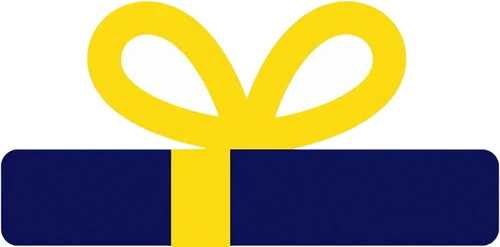
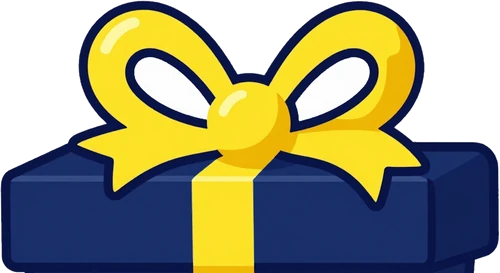
Round I: game work first in Work, compact How we work route (02.1 boot -> 02.2 piano inside 02), richer gift box

diff --git a/css/style.css b/css/style.css
@@ -866,16 +866,18 @@ ul { padding: 0; list-style: none; }
 .pricing::before { right: -5vw; bottom: -.12em; color: rgba(16, 28, 63, .02); }
 
 /* ---------- how we work: one route in four legs ---------- */
-/* 01 brief and onboarding (a small picture), 02 creation (the boot and the piano), 03 integration and
-   in-game testing (the Game Boy), 04 delivery and support (the gift). A navy station numbers each leg
-   and a light dashed line runs from one station to the next. On the Studio's sky blue. */
+/* 01 brief and onboarding (a small picture), 02 creation and coordination (inside it: 02.1 the boot,
+   then 02.2 the piano), 03 integration and in-game testing (the Game Boy), 04 delivery and support (the
+   gift). Each leg is one soft panel that holds its title, its text and its objects, so it is clear what
+   belongs to which step; a navy station numbers the leg, a short bar in the leg's colour ties the
+   station to its panel, and a light dashed line runs on to the next station. On the Studio's sky blue. */
 :root { --process-foot: var(--sky); }
 .process {
   background:
     radial-gradient(42% 30% at 92% 8%, rgba(255, 255, 255, .24), transparent 72%),
     radial-gradient(40% 30% at 4% 70%, rgba(255, 255, 255, .14), transparent 72%),
     var(--sky);
-  padding: calc(var(--seam) + 4px) var(--gutter) clamp(56px, 8vh, 96px);
+  padding: calc(var(--seam) + 4px) var(--gutter) clamp(48px, 7vh, 84px);
 }
 .process > * { max-width: var(--maxw); margin-left: auto; margin-right: auto; }
 .process__intro { display: grid; grid-template-columns: auto minmax(0, 1fr); gap: 14px 48px; align-items: end; }
@@ -884,75 +886,112 @@ ul { padding: 0; list-style: none; }
 .process__sub { font-weight: 800; font-stretch: 112%; font-size: var(--t-md); line-height: 1.2; margin-bottom: 6px; }
 .process__lede { line-height: 1.45; }
 
-.route { --gap: clamp(30px, 4.5vh, 48px); list-style: none; margin: clamp(30px, 4.5vh, 48px) auto 0; padding: 0; display: grid; gap: var(--gap); }
-.leg { --c: var(--zest); position: relative; display: grid; grid-template-columns: 60px minmax(0, 1fr); column-gap: clamp(16px, 2.4vw, 34px); }
+.route { --gap: 22px; --mark: 52px; --top: 16px; list-style: none; margin: clamp(26px, 4vh, 40px) auto 0; padding: 0; display: grid; gap: var(--gap); }
+.leg { --c: var(--zest); position: relative; display: grid; grid-template-columns: var(--mark) minmax(0, 1fr); column-gap: 20px; }
 .leg:nth-child(2) { --c: var(--jam); }
 .leg:nth-child(3) { --c: var(--mint); }
 .leg:nth-child(4) { --c: #fff; }
 /* the station */
 .leg__mark {
-  position: relative; z-index: 1; width: 60px; height: 60px; border-radius: 50%; display: grid; place-items: center;
-  background: var(--ink); color: #fff; font-weight: 900; font-stretch: 112%; font-size: 1.12rem; letter-spacing: .02em;
+  position: relative; z-index: 1; width: var(--mark); height: var(--mark); margin-top: var(--top); border-radius: 50%; display: grid; place-items: center;
+  background: var(--ink); color: #fff; font-weight: 900; font-stretch: 112%; font-size: 1.02rem; letter-spacing: .02em;
   box-shadow: inset 0 0 0 5px var(--c);
 }
 /* the line on to the next station, with a small arrow at its end */
 .leg:not(:last-child)::before {
-  content: ""; position: absolute; left: 28.5px; top: 68px; bottom: calc(-1 * var(--gap) + 10px); width: 3px;
+  content: ""; position: absolute; left: calc(var(--mark) / 2 - 1.5px); top: calc(var(--top) + var(--mark) + 6px);
+  bottom: calc(-1 * (var(--gap) + var(--top)) + 12px); width: 3px;
   background: repeating-linear-gradient(to bottom, var(--ink) 0 8px, transparent 8px 15px); opacity: .45;
 }
 .leg:not(:last-child)::after {
-  content: ""; position: absolute; left: 24px; bottom: calc(-1 * var(--gap) + 4px); width: 12px; height: 12px;
+  content: ""; position: absolute; left: calc(var(--mark) / 2 - 6px); bottom: calc(-1 * (var(--gap) + var(--top)) + 6px); width: 12px; height: 12px;
   border: solid var(--ink); border-width: 0 3px 3px 0; transform: rotate(45deg); opacity: .55;
 }
-.leg__body { min-width: 0; }
-.leg__title { font-weight: 900; font-stretch: 116%; font-size: clamp(1.45rem, 2.3vw, 2.05rem); line-height: 1.05; letter-spacing: -.02em; margin: 12px 0 10px; }
-.leg__text p { line-height: 1.5; max-width: 62ch; }
-.leg__text p + p { margin-top: 10px; }
-.leg__head { font-weight: 800; font-stretch: 112%; font-size: var(--t-md); line-height: 1.25; max-width: 42ch; }
+/* the panel of the leg, tied to its station */
+.leg__body {
+  position: relative; min-width: 0; padding: 16px clamp(16px, 1.8vw, 24px) 18px; border-radius: 24px;
+  background: rgba(255, 255, 255, .2); box-shadow: inset 0 0 0 2px rgba(255, 255, 255, .55);
+}
+.leg__body::before {
+  content: ""; position: absolute; left: -20px; top: calc(var(--top) + var(--mark) / 2 - 2px); width: 20px; height: 4px;
+  border-radius: 2px; background: var(--c);
+}
+.leg__title { font-weight: 900; font-stretch: 116%; font-size: clamp(1.3rem, 1.9vw, 1.75rem); line-height: 1.05; letter-spacing: -.02em; margin: 0 0 8px; }
+.leg__text p { line-height: 1.45; max-width: 60ch; }
+.leg__text p + p { margin-top: 8px; }
+.leg__head { font-weight: 800; font-stretch: 112%; font-size: clamp(1.02rem, 1.25vw, 1.15rem); line-height: 1.25; max-width: 40ch; }
 .leg__note { font-size: .9375rem; font-style: italic; }
-/* 01: picture and text in a row, short */
-.leg__body--row { display: flex; align-items: center; gap: clamp(16px, 2.4vw, 32px); }
-.leg__body--row .leg__title { margin-top: 0; }
-.leg__art { width: 108px; height: 108px; flex: none; }
-/* 02: the boot and the piano side by side */
-.leg--make .principles { margin-top: 22px; display: grid; grid-template-columns: repeat(2, minmax(0, 1fr)); gap: clamp(18px, 2.6vw, 36px); }
-/* 03 and 04: text beside the object */
-.leg__body--split { display: grid; grid-template-columns: minmax(0, .8fr) minmax(0, 1.2fr); gap: clamp(20px, 3vw, 48px); align-items: start; }
-.leg--test .principle__art { margin-bottom: 0; }
-.leg--deliver .leg__body--split { grid-template-columns: minmax(0, 1fr) minmax(240px, .75fr); }
+.leg__coord { padding: 8px 12px; border-radius: 14px; background: rgba(255, 255, 255, .55); font-size: .9375rem; }
+.leg__coord strong { font-weight: 850; }
+/* 01: a small picture and three short points in one row */
+.leg__body--row { display: flex; align-items: center; gap: clamp(14px, 2vw, 24px); }
+.leg__art { width: 76px; height: 76px; flex: none; }
+.leg__points { list-style: none; margin: 0; padding: 0; display: flex; flex-wrap: wrap; gap: 6px 26px; }
+.leg__points li { position: relative; padding-left: 16px; line-height: 1.4; }
+.leg__points li::before { content: ""; position: absolute; left: 0; top: .5em; width: 8px; height: 8px; border-radius: 50%; background: var(--ink); box-shadow: 0 0 0 2px var(--c); }
+/* 02: the text, then the two steps inside it: 02.1 sound effects -> 02.2 music */
+.leg__body--group { display: grid; grid-template-columns: minmax(230px, .78fr) minmax(0, 2.2fr); gap: 16px clamp(20px, 2.4vw, 32px); align-items: start; }
+.substeps { list-style: none; margin: 0; padding: 0; display: grid; grid-template-columns: repeat(2, minmax(0, 1fr)); gap: 16px 48px; }
+.substep { position: relative; display: flex; flex-direction: column; min-width: 0; }
+.substep__label { display: flex; align-items: center; gap: 8px; margin: 0 0 8px; font-weight: 800; font-stretch: 112%; font-size: 1.02rem; line-height: 1.2; }
+.substep__no {
+  flex: none; padding: 3px 8px; border-radius: 999px; background: var(--ink); color: #fff;
+  font-size: .78rem; letter-spacing: .03em; box-shadow: inset 0 0 0 2px var(--c);
+}
+.substep .principle__art { margin-bottom: 0; border-radius: 18px; box-shadow: 0 14px 24px -16px rgba(16, 28, 63, .5); }
+.substep__text { margin-top: 8px; font-size: .9375rem; line-height: 1.4; }
+/* the arrow from 02.1 to 02.2: a navy dot with a chevron, in the gap between the two cards */
+.substep + .substep::before, .substep + .substep::after { content: ""; position: absolute; z-index: 2; pointer-events: none; }
+.substep + .substep::before {
+  left: -39px; top: calc(28px + (100% - 28px - 2.8em) / 2 - 15px); width: 30px; height: 30px; border-radius: 50%;
+  background: var(--ink); box-shadow: inset 0 0 0 2px var(--c);
+}
+.substep + .substep::after {
+  left: -29px; top: calc(28px + (100% - 28px - 2.8em) / 2 - 5px); width: 8px; height: 8px;
+  border: solid #fff; border-width: 2.5px 2.5px 0 0; transform: rotate(45deg);
+}
+/* 03 and 04: the text beside the object */
+.leg__body--split { display: grid; grid-template-columns: minmax(0, 1fr) minmax(0, 460px); gap: 16px clamp(20px, 2.4vw, 32px); align-items: start; }
+.leg--test .principle__art { margin-bottom: 0; border-radius: 18px; }
+.leg--deliver .leg__body--split { grid-template-columns: minmax(0, 1fr) minmax(220px, 280px); }
 .leg .step__support { max-width: 52ch; }
-.process__cta { display: flex; flex-wrap: wrap; align-items: center; justify-content: center; gap: 12px 20px; margin-top: clamp(30px, 4.5vh, 48px); text-align: center; }
+.process__cta { display: flex; flex-wrap: wrap; align-items: center; justify-content: center; gap: 12px 20px; margin-top: clamp(26px, 4vh, 40px); text-align: center; }
 .process__cta p { font-weight: 800; font-stretch: 112%; font-size: var(--t-md); line-height: 1.2; }
-.step__support { margin-top: 12px; padding: 10px 12px; border-radius: 16px; background: #fff4c8; box-shadow: inset 0 0 0 2px var(--zest); font-size: .9375rem; line-height: 1.42; }
+.step__support { margin-top: 10px; padding: 9px 12px; border-radius: 16px; background: #fff4c8; box-shadow: inset 0 0 0 2px var(--zest); font-size: .9375rem; line-height: 1.42; }
 .step__support strong { display: block; margin-bottom: 2px; font-weight: 850; }
 
 /* ---------- the gift: shake it, open it ---------- */
-.gift { position: relative; display: grid; justify-items: center; gap: 12px; padding-top: 6px; }
+.gift { --tilt: 0deg; --hop: 0px; position: relative; display: grid; justify-items: center; gap: 10px; padding-top: 4px; }
 .gift__hint {
-  padding: 6px 14px; border-radius: 999px; background: #fff; color: var(--ink);
-  font-weight: 700; font-size: .875rem; line-height: 1.25; text-align: center; box-shadow: 0 6px 16px -10px rgba(16, 28, 63, .5);
+  padding: 5px 13px; border-radius: 999px; background: #fff; color: var(--ink);
+  font-weight: 700; font-size: .8125rem; line-height: 1.25; text-align: center; box-shadow: 0 6px 16px -10px rgba(16, 28, 63, .5);
   transition: opacity .3s;
 }
 .gift.is-open .gift__hint { opacity: 0; }
+.gift__stand { position: relative; display: grid; justify-items: center; }
 .gift__box {
-  --tilt: 0deg; --hop: 0px;
-  position: relative; display: block; width: min(250px, 64vw); aspect-ratio: 500 / 533; padding: 0; border: 0; background: none;
+  position: relative; z-index: 1; display: block; width: min(186px, 52vw); aspect-ratio: 500 / 527; padding: 0; border: 0; background: none;
   cursor: pointer; touch-action: manipulation; -webkit-tap-highlight-color: transparent;
   transform: translateY(var(--hop)) rotate(var(--tilt)); transform-origin: 50% 92%;
 }
 .gift__box:focus-visible { outline: 3px solid var(--ink); outline-offset: 8px; border-radius: 18px; }
+/* a soft flat shadow on the ground: it stays put and shrinks a little while the box hops */
+.gift__shadow {
+  position: relative; z-index: 0; width: 78%; height: 14px; margin-top: -8px; border-radius: 50%; background: rgba(16, 28, 63, .26);
+  transform: scaleX(calc(1 + var(--hop, 0px) / 40px)); transition: opacity .3s;
+}
 .gift__base, .gift__lid { position: absolute; left: 0; width: 100%; height: auto; pointer-events: none; -webkit-user-drag: none; }
 .gift__base { z-index: 2; bottom: 0; }
 .gift__lid { z-index: 3; top: 0; transform-origin: 18% 100%; transition: transform .55s var(--ease-spring), opacity .4s .25s; }
 /* the card waits inside the box, behind its front */
 .gift__card {
-  position: absolute; z-index: 1; left: 50%; top: 34%; width: max(200px, 92%);
-  display: grid; justify-items: center; gap: 4px; padding: 14px 16px 16px; border-radius: 20px;
+  position: absolute; z-index: 1; left: 50%; top: 34%; width: max(196px, 104%);
+  display: grid; justify-items: center; gap: 4px; padding: 12px 14px 14px; border-radius: 18px;
   background: #fff; color: var(--ink); box-shadow: 0 16px 34px -18px rgba(16, 28, 63, .6), inset 0 0 0 3px var(--jam);
   transform: translate(-50%, 0) scale(.6); opacity: 0;
 }
-.gift__card strong { font-weight: 900; font-stretch: 118%; font-size: clamp(2.6rem, 4.4vw, 3.4rem); line-height: .95; letter-spacing: -.03em; color: var(--jam); }
-.gift__card span { font-weight: 700; font-size: .9375rem; line-height: 1.3; text-align: center; }
+.gift__card strong { font-weight: 900; font-stretch: 118%; font-size: clamp(2.3rem, 3.6vw, 2.9rem); line-height: .95; letter-spacing: -.03em; color: var(--jam); }
+.gift__card span { font-weight: 700; font-size: .875rem; line-height: 1.3; text-align: center; }
 .gift.is-open .gift__lid { transform: translate(-34%, -48%) rotate(-28deg); }
 .gift.is-open .gift__card {
   z-index: 4; opacity: 1; transform: translate(-50%, -58%) scale(1) rotate(-3deg);
@@ -961,26 +1000,38 @@ ul { padding: 0; list-style: none; }
 @media (max-width: 1100px) {
   .process__intro { grid-template-columns: 1fr; }
   .process__side { justify-self: start; }
-  .leg__body--split, .leg--deliver .leg__body--split { grid-template-columns: minmax(0, 1fr); }
-  .leg--test .principle__art { max-width: 620px; }
-  .leg--make .principles { grid-template-columns: minmax(0, 1fr); }
-  .gift { justify-self: start; margin-left: 24px; }
+  .leg__body--group { grid-template-columns: minmax(0, 1fr); }
+  .leg__body--split { grid-template-columns: minmax(0, 1fr) minmax(0, 400px); }
+}
+@media (max-width: 860px) {
+  .leg--test .leg__body--split { grid-template-columns: minmax(0, 1fr); }
+  .leg--test .principle__art { max-width: 460px; }
 }
 @media (max-width: 760px) {
-  /* top to bottom: the station and the title in one row, then the rest */
-  .leg { grid-template-columns: 44px minmax(0, 1fr); column-gap: 14px; }
-  .leg__mark { width: 44px; height: 44px; font-size: .95rem; box-shadow: inset 0 0 0 4px var(--c); }
-  .leg:not(:last-child)::before { left: 20.5px; top: 52px; }
-  .leg:not(:last-child)::after { left: 16px; }
-  .leg__title { margin-top: 6px; }
+  /* top to bottom: each panel carries its station in its corner, the dashed line runs between panels */
+  .route { --gap: 30px; --mark: 40px; }
+  .leg { grid-template-columns: minmax(0, 1fr); }
+  .leg__mark { position: absolute; left: 12px; top: 12px; margin: 0; font-size: .9rem; box-shadow: inset 0 0 0 4px var(--c); }
+  .leg:not(:last-child)::before { left: 30.5px; top: auto; bottom: calc(-1 * var(--gap) + 9px); height: calc(var(--gap) - 4px); }
+  .leg:not(:last-child)::after { left: 26px; bottom: calc(-1 * var(--gap) + 3px); }
+  .leg__body { padding: 14px 14px 16px; border-radius: 20px; }
+  .leg__body::before { display: none; }
+  .leg__title { min-height: 40px; display: flex; align-items: center; padding-left: 52px; margin-bottom: 10px; }
   .leg__body--row { align-items: flex-start; }
-  .leg__art { width: 72px; height: 72px; order: 2; }
-  .gift { justify-self: center; margin-left: 0; }
+  .leg__art { width: 56px; height: 56px; order: 2; margin-top: 46px; }
+  .leg__points { flex-direction: column; gap: 4px; }
+  .substeps { grid-template-columns: minmax(0, 1fr); gap: 44px; }
+  .substep + .substep::before { left: calc(50% - 15px); top: -37px; }
+  .substep + .substep::after { left: calc(50% - 5px); top: -27px; transform: rotate(135deg); }
+  .leg--test .principle__art { max-width: 340px; justify-self: center; width: 100%; }
+  .leg--deliver .leg__body--split { grid-template-columns: minmax(0, 1fr); }
+  .gift__box { width: min(168px, 48vw); }
 }
 .gift.is-still .gift__lid, .gift.is-still .gift__card, .gift.is-still .gift__hint { transition: none; }
 @media (prefers-reduced-motion: reduce) {
   .gift__lid, .gift.is-open .gift__card { transition: none; }
   .gift__box { transform: none; }
+  .gift__shadow { transform: none; }
 }
 
 /* ---------- seams between sections ---------- */

diff --git a/index.html b/index.html
@@ -114,23 +114,36 @@
           <img class="leg__art" src="assets/process/connect.webp" alt="" width="220" height="220" loading="lazy" decoding="async">
           <div class="leg__text">
             <h3 class="leg__title"><span class="visually-hidden">Step 1: </span>Brief &amp; onboarding</h3>
-            <p>We take your request, get to know the project and agree on the tasks. Our manager joins your Asana, Trello or other workspace, and together we settle the timing, the owners and how we keep in touch.</p>
+            <ul class="leg__points">
+              <li>We take your request.</li>
+              <li>We agree on the tasks, the scope and the timing.</li>
+              <li>Our manager joins your Asana, Trello or other workspace.</li>
+            </ul>
           </div>
         </div>
       </li>
 
       <li class="leg leg--make" id="studio">
         <p class="leg__mark" aria-hidden="true">02</p>
-        <div class="leg__body">
-          <div class="leg__text leg__text--wide">
+        <div class="leg__body leg__body--group">
+          <div class="leg__text">
             <h3 class="leg__title"><span class="visually-hidden">Step 2: </span>Creation &amp; coordination</h3>
             <p class="leg__head">Cartoon worlds need sound that commits. This is where we make it.</p>
-            <p>Round, bouncy art calls for round, bouncy sound. We design from the setting and the animation, not from a generic library tone. Our manager runs our team’s tasks and keeps in touch with your project team.</p>
+            <p>Round, bouncy art calls for round, bouncy sound. We design from the setting and the animation, not from a generic library tone.</p>
+            <p class="leg__coord"><strong>Coordination.</strong> Our manager runs our team’s tasks and works with your developers.</p>
           </div>
-          <ul class="principles">
-            <li><div class="principle__art principle__art--stage" data-scene="foley" role="group" aria-label="Footsteps: a boot over dirt, sand, grass and snow. Press a surface to hear the boot step on it."><span class="principle__hint" aria-hidden="true">Pick a surface</span><img class="principle__img" src="assets/studio/foley-1024.webp" srcset="assets/studio/foley-640.webp 640w, assets/studio/foley-1024.webp 1024w" sizes="(max-width: 760px) 92vw, (max-width: 1100px) 44vw, 40vw" width="1024" height="768" loading="lazy" decoding="async" alt=""></div><div class="principle__text"><h4>Sound effects</h4><p>Every surface has its own step. Pick one and listen.</p></div></li>
-            <li><div class="principle__art principle__art--play" data-scene="keys" tabindex="0" role="group" aria-label="A small keyboard you can play" aria-describedby="piano-help"><span class="principle__hint" aria-hidden="true">Play me</span><span class="visually-hidden" id="piano-help">Click or tap the keys. With the keyboard, use A to L for white keys and W, E, T, Y, U, O, P for black keys.</span><img class="principle__img" src="assets/studio/music-1024.webp" srcset="assets/studio/music-640.webp 640w, assets/studio/music-1024.webp 1024w" sizes="(max-width: 760px) 92vw, (max-width: 1100px) 44vw, 40vw" width="1024" height="768" loading="lazy" decoding="async" alt=""></div><div class="principle__text"><h4>Music</h4><p>The musical side of the work. Play the keys.</p></div></li>
-          </ul>
+          <ol class="substeps" aria-label="Inside this step: first the sound effects, then the music">
+            <li class="substep">
+              <h4 class="substep__label"><span class="substep__no">02.1</span> <span>Sound effects &amp; footsteps</span></h4>
+              <div class="principle__art principle__art--stage" data-scene="foley" role="group" aria-label="Footsteps: a boot over dirt, sand, grass and snow. Press a surface to hear the boot step on it."><span class="principle__hint" aria-hidden="true">Pick a surface</span><img class="principle__img" src="assets/studio/foley-1024.webp" srcset="assets/studio/foley-640.webp 640w, assets/studio/foley-1024.webp 1024w" sizes="(max-width: 760px) 92vw, (max-width: 1100px) 44vw, 420px" width="1024" height="768" loading="lazy" decoding="async" alt=""></div>
+              <p class="substep__text">Every surface has its own step. Pick one and listen.</p>
+            </li>
+            <li class="substep">
+              <h4 class="substep__label"><span class="substep__no">02.2</span> <span>Music</span></h4>
+              <div class="principle__art principle__art--play" data-scene="keys" tabindex="0" role="group" aria-label="A small keyboard you can play" aria-describedby="piano-help"><span class="principle__hint" aria-hidden="true">Play me</span><span class="visually-hidden" id="piano-help">Click or tap the keys. With the keyboard, use A to L for white keys and W, E, T, Y, U, O, P for black keys.</span><img class="principle__img" src="assets/studio/music-1024.webp" srcset="assets/studio/music-640.webp 640w, assets/studio/music-1024.webp 1024w" sizes="(max-width: 760px) 92vw, (max-width: 1100px) 44vw, 420px" width="1024" height="768" loading="lazy" decoding="async" alt=""></div>
+              <p class="substep__text">The musical side of the work. Play the keys.</p>
+            </li>
+          </ol>
         </div>
       </li>
 
@@ -139,10 +152,10 @@
         <div class="leg__body leg__body--split">
           <div class="leg__text">
             <h3 class="leg__title"><span class="visually-hidden">Step 3: </span>Integration &amp; in‑game testing</h3>
-            <p>Sound has to work in the game itself. We work with your developers on hooking it up, play the available build, listen to the result, log notes and adjust the sound.</p>
-            <p class="leg__note">On the screen, a small rhythm game pictures this step: catch the notes on the strings.</p>
+            <p>We check the sound and the music in the game itself: we work with your developers on hooking it up, play the available build, log notes and fix them.</p>
+            <p class="leg__note">The little rhythm game on the screen only pictures this step: catch the notes on the strings.</p>
           </div>
-          <div class="principle__art principle__art--pad" data-scene="console" role="group" aria-label="A handheld console with a small rhythm game: four strings on its screen, notes slide down to their targets." aria-describedby="pad-help"><span class="principle__hint" aria-hidden="true">Sweep across the strings</span><span class="visually-hidden" id="pad-help">Press Play, then pluck each string as its note reaches the target: pass the cursor across the string (no click needed), swipe across it on a touch screen, or use the keys D, F, J and K. Out of a game the strings can be plucked freely.</span><picture><source media="(max-width: 760px)" srcset="assets/studio/engine-tall-640.webp" width="640" height="853"><img class="principle__img" src="assets/studio/engine-1024.webp" srcset="assets/studio/engine-640.webp 640w, assets/studio/engine-1024.webp 1024w" sizes="(max-width: 760px) 92vw, (max-width: 1100px) 56vw, 44vw" width="1024" height="768" loading="lazy" decoding="async" alt=""></picture></div>
+          <div class="principle__art principle__art--pad" data-scene="console" role="group" aria-label="A handheld console with a small rhythm game: four strings on its screen, notes slide down to their targets." aria-describedby="pad-help"><span class="principle__hint" aria-hidden="true">Sweep across the strings</span><span class="visually-hidden" id="pad-help">Press Play, then pluck each string as its note reaches the target: pass the cursor across the string (no click needed), swipe across it on a touch screen, or use the keys D, F, J and K. Out of a game the strings can be plucked freely.</span><picture><source media="(max-width: 760px)" srcset="assets/studio/engine-tall-640.webp" width="640" height="853"><img class="principle__img" src="assets/studio/engine-1024.webp" srcset="assets/studio/engine-640.webp 640w, assets/studio/engine-1024.webp 1024w" sizes="(max-width: 760px) 92vw, (max-width: 1100px) 60vw, 560px" width="1024" height="768" loading="lazy" decoding="async" alt=""></picture></div>
         </div>
       </li>
 
@@ -156,11 +169,14 @@
           </div>
           <div class="gift" data-gift>
             <p class="gift__hint" aria-hidden="true">Give it a shake, then open your gift</p>
-            <button class="gift__box" type="button" data-gift-open aria-label="Open the gift" aria-describedby="gift-help">
-              <span class="gift__card" aria-hidden="true"><strong>−10%</strong><span>On your first project — with any package</span></span>
-              <img class="gift__base" src="assets/process/gift-base.webp" alt="" width="500" height="286" decoding="async">
-              <img class="gift__lid" src="assets/process/gift-lid.webp" alt="" width="500" height="247" decoding="async">
-            </button>
+            <div class="gift__stand">
+              <button class="gift__box" type="button" data-gift-open aria-label="Open the gift" aria-describedby="gift-help">
+                <span class="gift__card" aria-hidden="true"><strong>−10%</strong><span>On your first project — with any package</span></span>
+                <img class="gift__base" src="assets/process/gift-base.webp" alt="" width="500" height="254" decoding="async">
+                <img class="gift__lid" src="assets/process/gift-lid.webp" alt="" width="500" height="273" decoding="async">
+              </button>
+              <span class="gift__shadow" aria-hidden="true"></span>
+            </div>
             <p class="visually-hidden" id="gift-help">A bonus for you: 10% off your first project, with any package. Opening it takes you to the contact form.</p>
             <p class="visually-hidden" aria-live="polite" data-gift-live></p>
           </div>

diff --git a/js/content.js b/js/content.js
@@ -12,7 +12,9 @@ export const SITE = {
   clients: [],
 };
 
-// The record collection: eight companies SoundFX has worked with. Each sleeve is a finished
+// The record collection: the companies and games our team has worked on. Order (owner, round I): our
+// game work first (RJ Games, Vogster, HEY CLAY, Ultimate Pirates), then the other companies; the first
+// record is the one shown when the page opens. Each sleeve is a finished
 // album cover built by tools/build_covers.py (ComfyUI background + the company's official logo
 // and official marks of its games laid on top; sources in design/covers/SOURCES.md).
 // The games on a cover refer to the company's world; they do not claim SoundFX worked on them.
@@ -25,11 +27,6 @@ export const SITE = {
 //   about: the caption, when the record is a game rather than a company
 //   link:  { href, label } the official page, shown under the caption (opens in a new tab)
 export const PROJECTS = [
-  { id: 'navi', kind: 'client', title: 'NAVI', vinyl: '#29b6f0', cover: '#ffee00', art: 'assets/covers/navi.webp', logo: 'assets/clients/navi.svg' },
-  { id: 'valve', kind: 'client', title: 'Valve', vinyl: '#ffd02e', cover: '#1b1b1f', art: 'assets/covers/valve.webp', logo: 'assets/clients/valve.svg' },
-  { id: 'epic-games', kind: 'client', title: 'Epic Games', vinyl: '#ff3d8b', cover: '#f0f0ec', art: 'assets/covers/epic-games.webp', logo: 'assets/clients/epic-games.svg' },
-  { id: 'riot-games', kind: 'client', title: 'Riot Games', vinyl: '#3ed6a3', cover: '#d13639', art: 'assets/covers/riot-games.webp', logo: 'assets/clients/riot-games.png' },
-  { id: 'weplay', kind: 'client', title: 'WePlay Studios', vinyl: '#8a6bff', cover: '#14082b', art: 'assets/covers/weplay.webp', logo: 'assets/clients/weplay.svg' },
   { id: 'rj-games', kind: 'client', title: 'RJ Games', project: 'Puzzle Breakers', vinyl: '#ff7a2f', cover: '#0f332f', art: 'assets/covers/rj-games.webp', logo: 'assets/clients/rj-games.svg' },
   { id: 'vogster', kind: 'client', title: 'Vogster Entertainment', project: 'Carnivores: Dinosaur Hunter HD', vinyl: '#29b6f0', cover: '#0b0f1a', art: 'assets/covers/vogster.webp', logo: null },
   { id: 'hey-clay', kind: 'client', title: 'HEY CLAY', project: 'LIPAKA (ЛІПАКА)', vinyl: '#ffd02e', cover: '#eef5f9', art: 'assets/covers/hey-clay.webp', logo: 'assets/clients/hey-clay.webp' },
@@ -37,4 +34,9 @@ export const PROJECTS = [
   { id: 'ultimate-pirates', kind: 'client', title: 'Ultimate Pirates', vinyl: '#f2b33d', cover: '#101a24', art: 'assets/covers/ultimate-pirates.webp', logo: null,
     about: 'Our team has worked on Ultimate Pirates, the pirate MMO by Moonmana. Project details coming soon.',
     link: { href: 'https://store.steampowered.com/app/2628460/Ultimate_pirates/', label: 'Ultimate Pirates on Steam' } },
+  { id: 'navi', kind: 'client', title: 'NAVI', vinyl: '#29b6f0', cover: '#ffee00', art: 'assets/covers/navi.webp', logo: 'assets/clients/navi.svg' },
+  { id: 'valve', kind: 'client', title: 'Valve', vinyl: '#ffd02e', cover: '#1b1b1f', art: 'assets/covers/valve.webp', logo: 'assets/clients/valve.svg' },
+  { id: 'epic-games', kind: 'client', title: 'Epic Games', vinyl: '#ff3d8b', cover: '#f0f0ec', art: 'assets/covers/epic-games.webp', logo: 'assets/clients/epic-games.svg' },
+  { id: 'riot-games', kind: 'client', title: 'Riot Games', vinyl: '#3ed6a3', cover: '#d13639', art: 'assets/covers/riot-games.webp', logo: 'assets/clients/riot-games.png' },
+  { id: 'weplay', kind: 'client', title: 'WePlay Studios', vinyl: '#8a6bff', cover: '#14082b', art: 'assets/covers/weplay.webp', logo: 'assets/clients/weplay.svg' },
 ];

diff --git a/js/i18n-uk.js b/js/i18n-uk.js
@@ -89,6 +89,18 @@ export const UK = {
   'Ready to plug sound into your team?': 'Готові підключити звук до своєї команди?',
   'Discuss your project': 'Обговорити проєкт',
 
+  /* the route, compact (round I): short points in 01, 02.1 -> 02.2 inside 02 */
+  'We take your request.': 'Отримуємо ваш запит.',
+  'We agree on the tasks, the scope and the timing.': 'Погоджуємо завдання, обсяг і терміни.',
+  'Our manager joins your Asana, Trello or other workspace.': 'Менеджер підключається до вашої Asana, Trello чи іншого робочого інструмента.',
+  'Coordination.': 'Координація.',
+  'Our manager runs our team’s tasks and works with your developers.': 'Менеджер веде завдання нашої команди й працює з вашими розробниками.',
+  'Inside this step: first the sound effects, then the music': 'Усередині етапу: спершу звукові ефекти, потім музика',
+  'Sound effects & footsteps': 'Звукові ефекти й кроки',
+  'We check the sound and the music in the game itself: we work with your developers on hooking it up, play the available build, log notes and fix them.':
+    'Перевіряємо звук і музику в самій грі: разом із вашими розробниками підключаємо їх, граємо в доступну збірку, фіксуємо зауваження й виправляємо їх.',
+  'The little rhythm game on the screen only pictures this step: catch the notes on the strings.': 'Маленька ритм-гра на екрані лише ілюструє цей етап: зловіть ноти на струнах.',
+
   /* the route (round H): four legs, the gift, the bonus */
   'Brief & onboarding': 'Запит і підключення',
   'We take your request, get to know the project and agree on the tasks. Our manager joins your Asana, Trello or other workspace, and together we settle the timing, the owners and how we keep in touch.':

diff --git a/js/gift.js b/js/gift.js
@@ -32,7 +32,8 @@ export function initGift({ reduce }) {
 
   /* ---- the shake ---- */
   let tilt = 0, vel = 0, hop = 0, hopV = 0, raf = 0, last = 0, lastX = null, lastT = 0;
-  const paint = () => { box.style.setProperty('--tilt', `${tilt.toFixed(2)}deg`); box.style.setProperty('--hop', `${hop.toFixed(2)}px`); };
+  // on the whole gift: the box tilts and hops, its shadow on the ground answers the hop
+  const paint = () => { root.style.setProperty('--tilt', `${tilt.toFixed(2)}deg`); root.style.setProperty('--hop', `${hop.toFixed(2)}px`); };
   const step = (ts) => {
     const dt = Math.min(0.033, last ? (ts - last) / 1000 : 0.016);
     last = ts;
